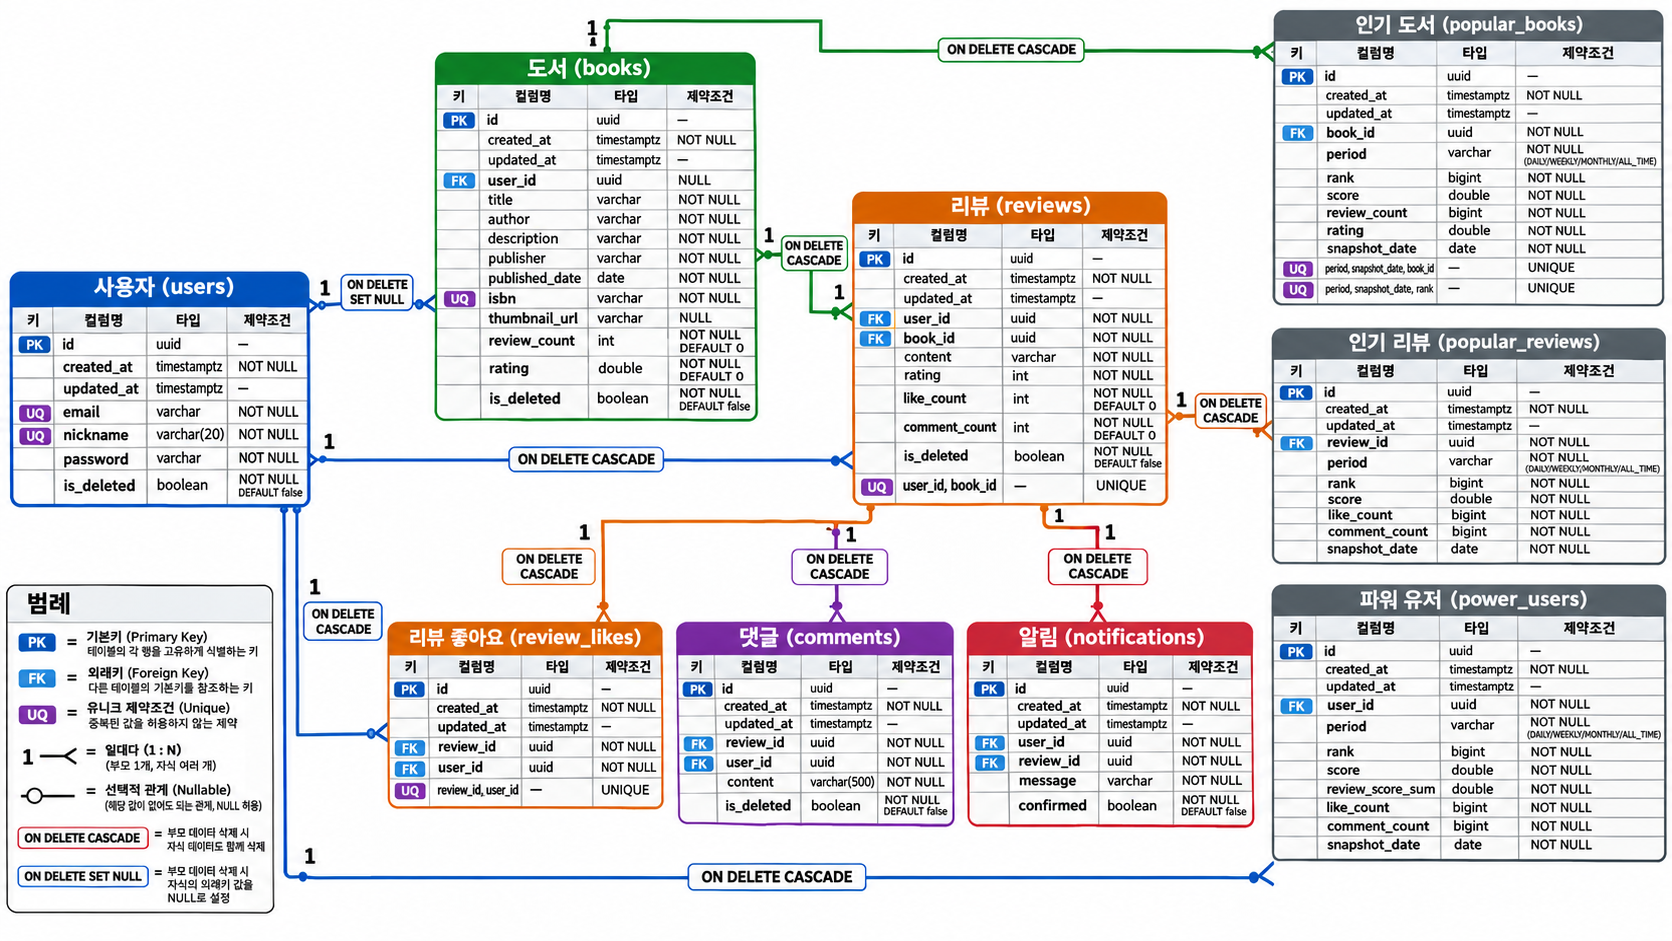
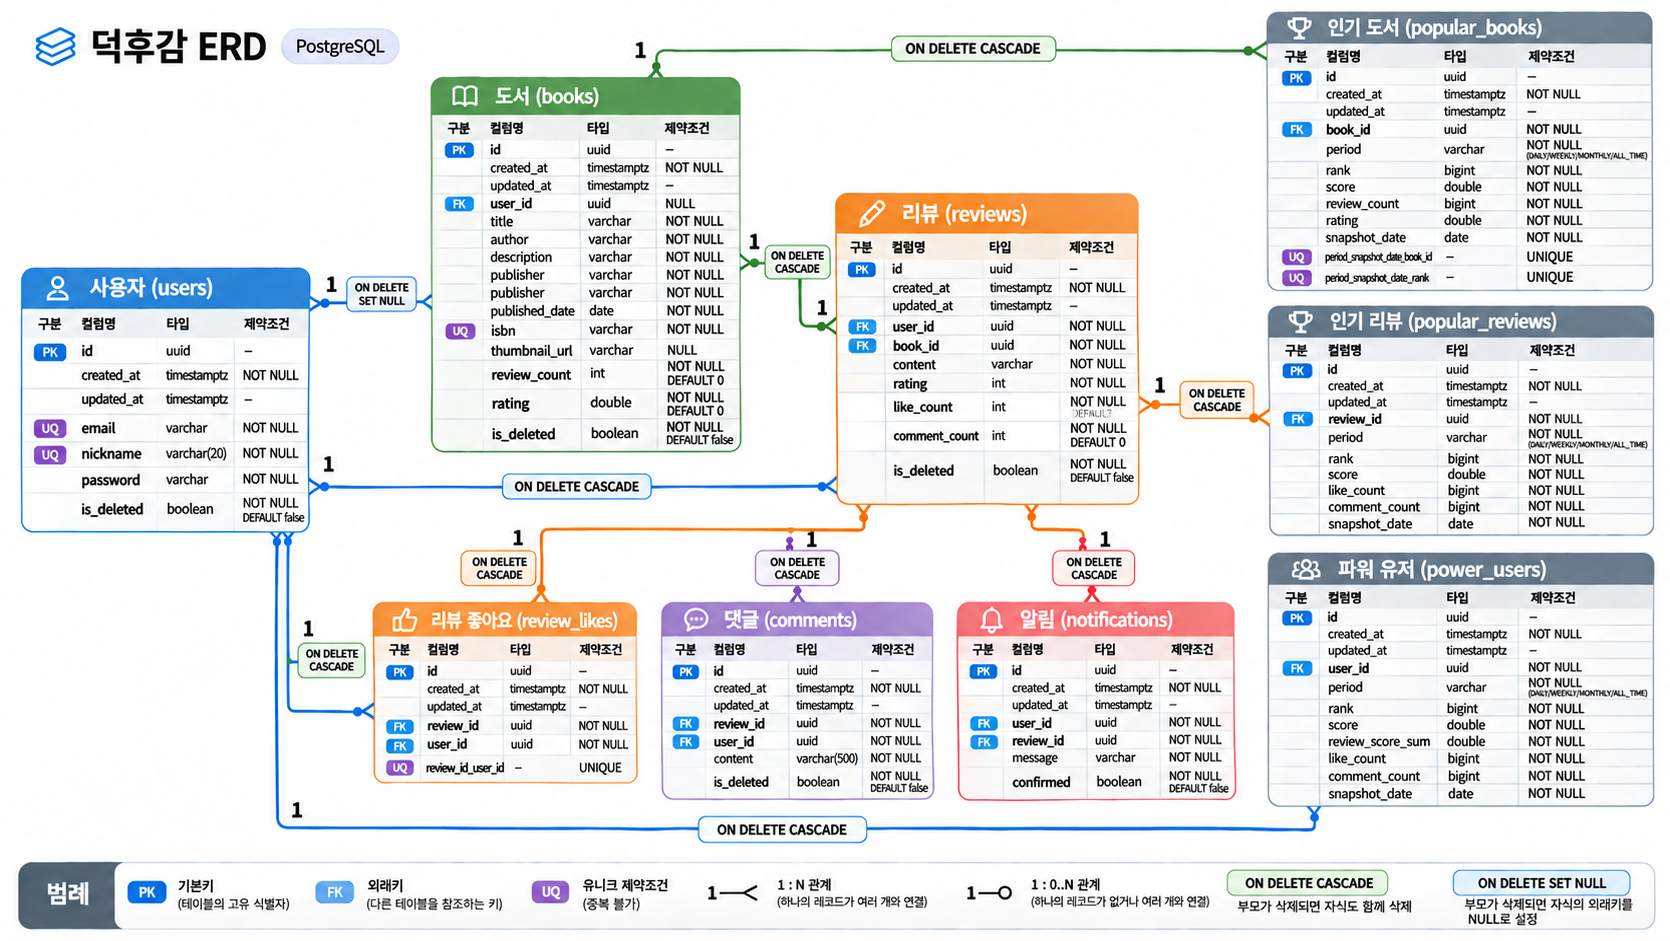
docs: ERD, 아키텍쳐 이미지 수정

diff --git a/README.md b/README.md
@@ -199,7 +199,15 @@ OCR 기반 ISBN 인식과 외부 도서 API 연동으로 도서 등록 과정을
 
 모든 테이블은 `BaseEntity` 의 `id(UUID)`, `created_at`, `updated_at` 을 공통으로 가집니다.
 
-<p align="center"><img src="docs/readme/images/erd.png" alt="ERD" width="90%"/></p>
+<p align="center"><img src="docs/readme/images/ERD1.png" alt="ERD" width="100%"/></p>
+
+<details>
+<summary>[실제 ERD 보기]</summary>
+<br>
+
+<p align="center"><img src="docs/readme/images/erd.png" alt="실제 ERD" width="90%"/></p>
+
+</details>
 
 - 사용자 · 도서 · 리뷰 · 댓글은 `is_deleted` 로 논리 삭제
 
@@ -245,59 +253,6 @@ src
 ```
 
 <p align="center"><img src="docs/readme/images/package-structure2.png" alt="패키지 구조" width="100%"/></p>
-
-```mermaid
-flowchart LR
-    Client([Client])
-
-    subgraph DRIVING["adapter.in — 들어오는 쪽"]
-        direction TB
-        CTL["Controller<br/>(REST · dto · mapper)"]
-        SCH["Scheduler<br/>(랭킹 배치 · 알림)"]
-    end
-
-    subgraph HEX["⬡ 애플리케이션 코어 (application + domain)"]
-        direction LR
-        PIN["port.in<br/>UseCase"]
-        SVC["Service<br/>(유스케이스 구현)"]
-        DOM["domain<br/>Entity · Validator"]
-        POUT["port.out<br/>RepositoryPort<br/>Storage · Hasher"]
-        PIN --- SVC
-        SVC --> DOM
-        SVC --> POUT
-    end
-
-    subgraph DRIVEN["adapter.out — 나가는 쪽"]
-        direction TB
-        DB[("PostgreSQL<br/>JPA · QueryDSL")]
-        ST["S3 / Local Storage"]
-        PW["BCrypt Hasher"]
-    end
-
-    Client --> CTL
-    CTL --> PIN
-    SCH --> PIN
-    POUT -.->|구현체| DB
-    POUT -.->|구현체| ST
-    POUT -.->|구현체| PW
-```
-
-`common` 패키지(config, exception, logging, pagination 등)는 모든 도메인이 공유합니다.
-
-## 🌐 구현 홈페이지
-
-| 구분           | 주소 · 상태                                                                                                                        |
-|:-------------|:-------------------------------------------------------------------------------------------------------------------------------|
-| 🌐 배포 홈페이지   | [deokhugam-alb-742426925.ap-northeast-2.elb.amazonaws.com](http://deokhugam-alb-742426925.ap-northeast-2.elb.amazonaws.com/#/) |
-| 💻 로컬 홈페이지   | [http://localhost:8080/](http://localhost:8080/) — 백엔드 실행 후 접속                                                                 |
-| 📖 로컬 API 문서 | [Swagger UI](http://localhost:8080/swagger-ui/index.html)                                                                      |
-
-<details>
-<summary>서비스 시연 영상 보기</summary>
-
-<video src="https://github.com/user-attachments/assets/여기에-복사한-주소" width="720" controls muted></video>
-[▶ 서비스 시연 영상 보기](docs/readme/videos/demo.mp4)
-</details>
 
 ## ☁ 배포 구조
 
